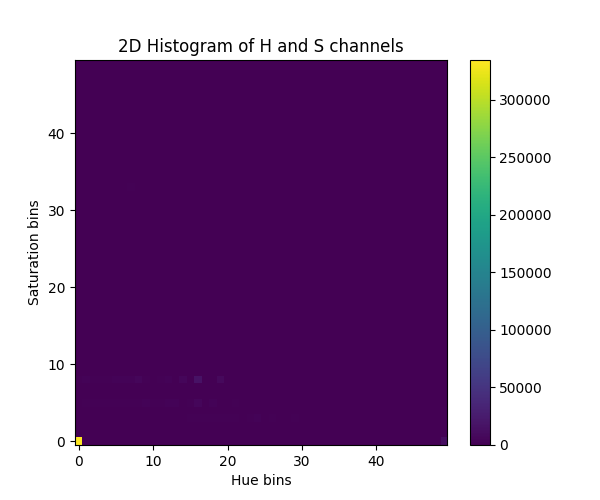
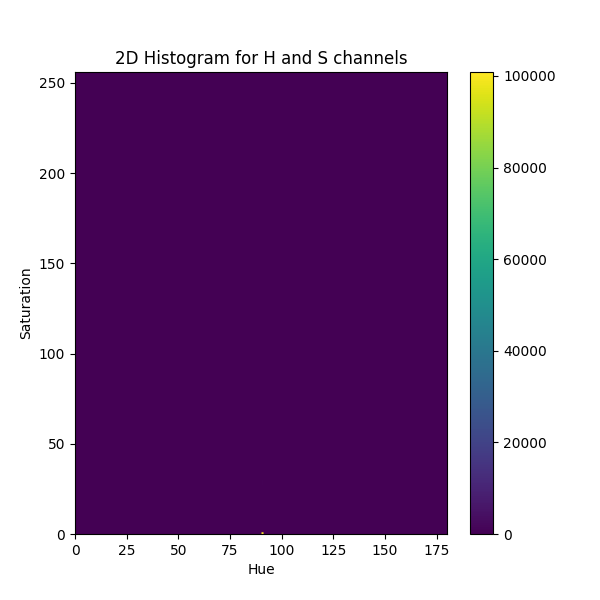
新增直方圖均衡化功能，並生成原圖與均衡化後圖的比較圖

diff --git a/HW1/hw1.py b/HW1/hw1.py
@@ -1,0 +1,108 @@
+import cv2
+import numpy as np
+import matplotlib.pyplot as plt
+
+def histogram_equalization(channel):
+    # 計算直方圖：計算 0~255 的像素出現次數
+    hist = np.bincount(channel.flatten(), minlength=256)
+    
+    # 計算累積分布函數 (CDF)
+    cdf = hist.cumsum()
+    
+    # 將 CDF 正規化到 0-255 範圍
+    cdf_normalized = (cdf - cdf.min()) * 255 / (cdf.max() - cdf.min())
+    cdf_normalized = cdf_normalized.astype(np.uint8)
+    
+    # 利用正規化的 CDF 當作查找表映射原始像素值
+    equalized = cdf_normalized[channel]
+    
+    return equalized
+
+def main():
+    # 讀取輸入圖片，請確保 input.png 與程式在同一資料夾中
+    img = cv2.imread('HW1/input.jpg')
+    if img is None:
+        print("Error: 'input.png' not found.")
+        return
+
+    # 轉換 BGR 至 HSV 色彩空間，分離出 H, S, V 三個通道
+    hsv = cv2.cvtColor(img, cv2.COLOR_BGR2HSV)
+    h, s, v = cv2.split(hsv)
+    
+    # -----------------------
+    # 產生 H 與 S 通道的 2D 直方圖
+    # -----------------------
+    # 計算 2D histogram (bins: Hue 0~180, Saturation 0~256)
+    hist2d, xedges, yedges = np.histogram2d(
+        h.flatten(), s.flatten(), bins=[180, 256], range=[[0, 180], [0, 256]]
+    )
+    
+    plt.figure(figsize=(6, 6))
+    plt.imshow(hist2d.T, origin='lower', aspect='auto', extent=[0, 180, 0, 256])
+    plt.xlabel('Hue')
+    plt.ylabel('Saturation')
+    plt.title('2D Histogram for H and S channels')
+    plt.colorbar()
+    plt.savefig('HW1/2d_histogram.png')
+    plt.close()
+
+    # -----------------------
+    # 對 V 通道進行直方圖均衡化
+    # -----------------------
+    v_eq = histogram_equalization(v)
+    
+    # 合併均衡化後的 V 與原始的 H, S 通道，並轉回 BGR 色彩空間
+    hsv_eq = cv2.merge([h, s, v_eq])
+    output_img = cv2.cvtColor(hsv_eq, cv2.COLOR_HSV2BGR)
+    cv2.imwrite('HW1/output.png', output_img)
+    
+    # -----------------------
+    # 生成比較圖：原圖、均衡化後圖與其各自的灰階 PDF
+    # -----------------------
+    # 將 BGR 轉換為 RGB 方便 matplotlib 顯示
+    img_rgb = cv2.cvtColor(img, cv2.COLOR_BGR2RGB)
+    output_rgb = cv2.cvtColor(output_img, cv2.COLOR_BGR2RGB)
+    
+    # 將原圖與結果圖轉為灰階
+    gray_original = cv2.cvtColor(img, cv2.COLOR_BGR2GRAY)
+    gray_equalized = cv2.cvtColor(output_img, cv2.COLOR_BGR2GRAY)
+    
+    # 計算灰階直方圖 (256 bins)
+    hist_orig = cv2.calcHist([gray_original], [0], None, [256], [0, 256])
+    hist_eq = cv2.calcHist([gray_equalized], [0], None, [256], [0, 256])
+    
+    # 轉換為 PDF (機率密度函數)
+    pdf_orig = hist_orig / hist_orig.sum()
+    pdf_eq = hist_eq / hist_eq.sum()
+    
+    # 建立 2x2 子圖網格
+    fig, axs = plt.subplots(2, 2, figsize=(10, 8))
+    
+    # 左上：原圖 (RGB)
+    axs[0, 0].imshow(img_rgb)
+    axs[0, 0].axis('off')
+    axs[0, 0].set_title('Original Image')
+    
+    # 右上：原圖的灰階 PDF
+    axs[0, 1].plot(pdf_orig, color='blue')
+    axs[0, 1].set_title('Original Grayscale PDF')
+    axs[0, 1].set_xlabel('Gray Level')
+    axs[0, 1].set_ylabel('Probability Density')
+    
+    # 左下：均衡化後圖 (RGB)
+    axs[1, 0].imshow(output_rgb)
+    axs[1, 0].axis('off')
+    axs[1, 0].set_title('Equalized Image')
+    
+    # 右下：均衡化後圖的灰階 PDF
+    axs[1, 1].plot(pdf_eq, color='red')
+    axs[1, 1].set_title('Equalized Grayscale PDF')
+    axs[1, 1].set_xlabel('Gray Level')
+    axs[1, 1].set_ylabel('Probability Density')
+    
+    plt.tight_layout()
+    plt.savefig('HW1/result.png')
+    plt.close()
+
+if __name__ == '__main__':
+    main()
